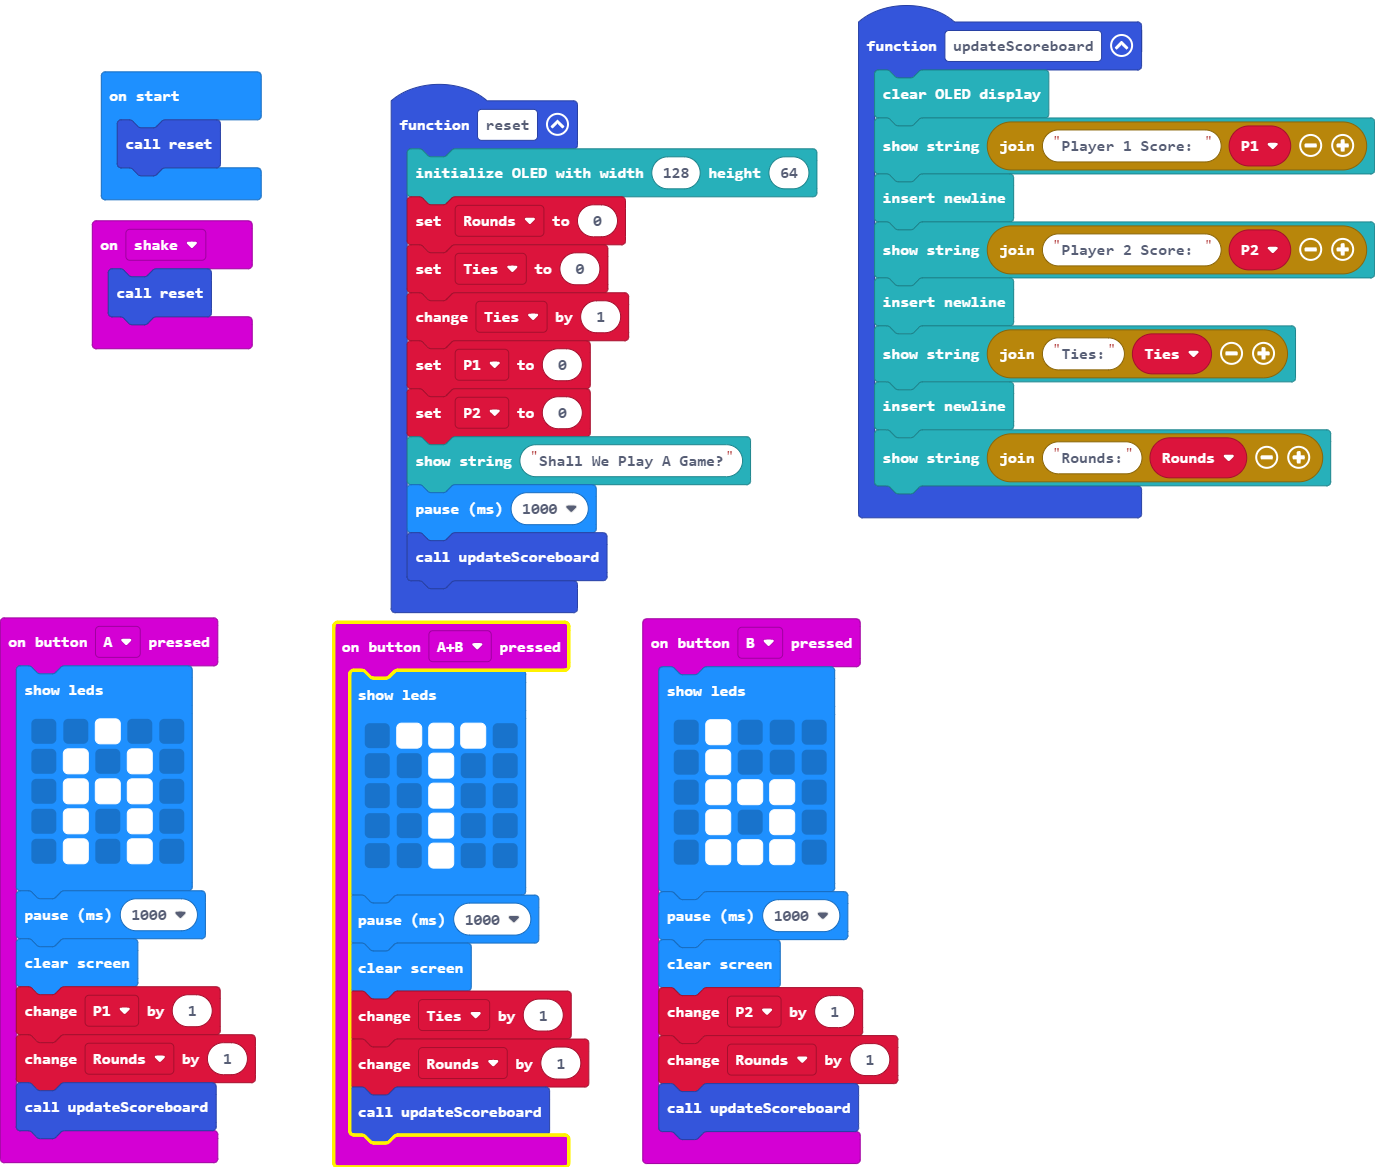
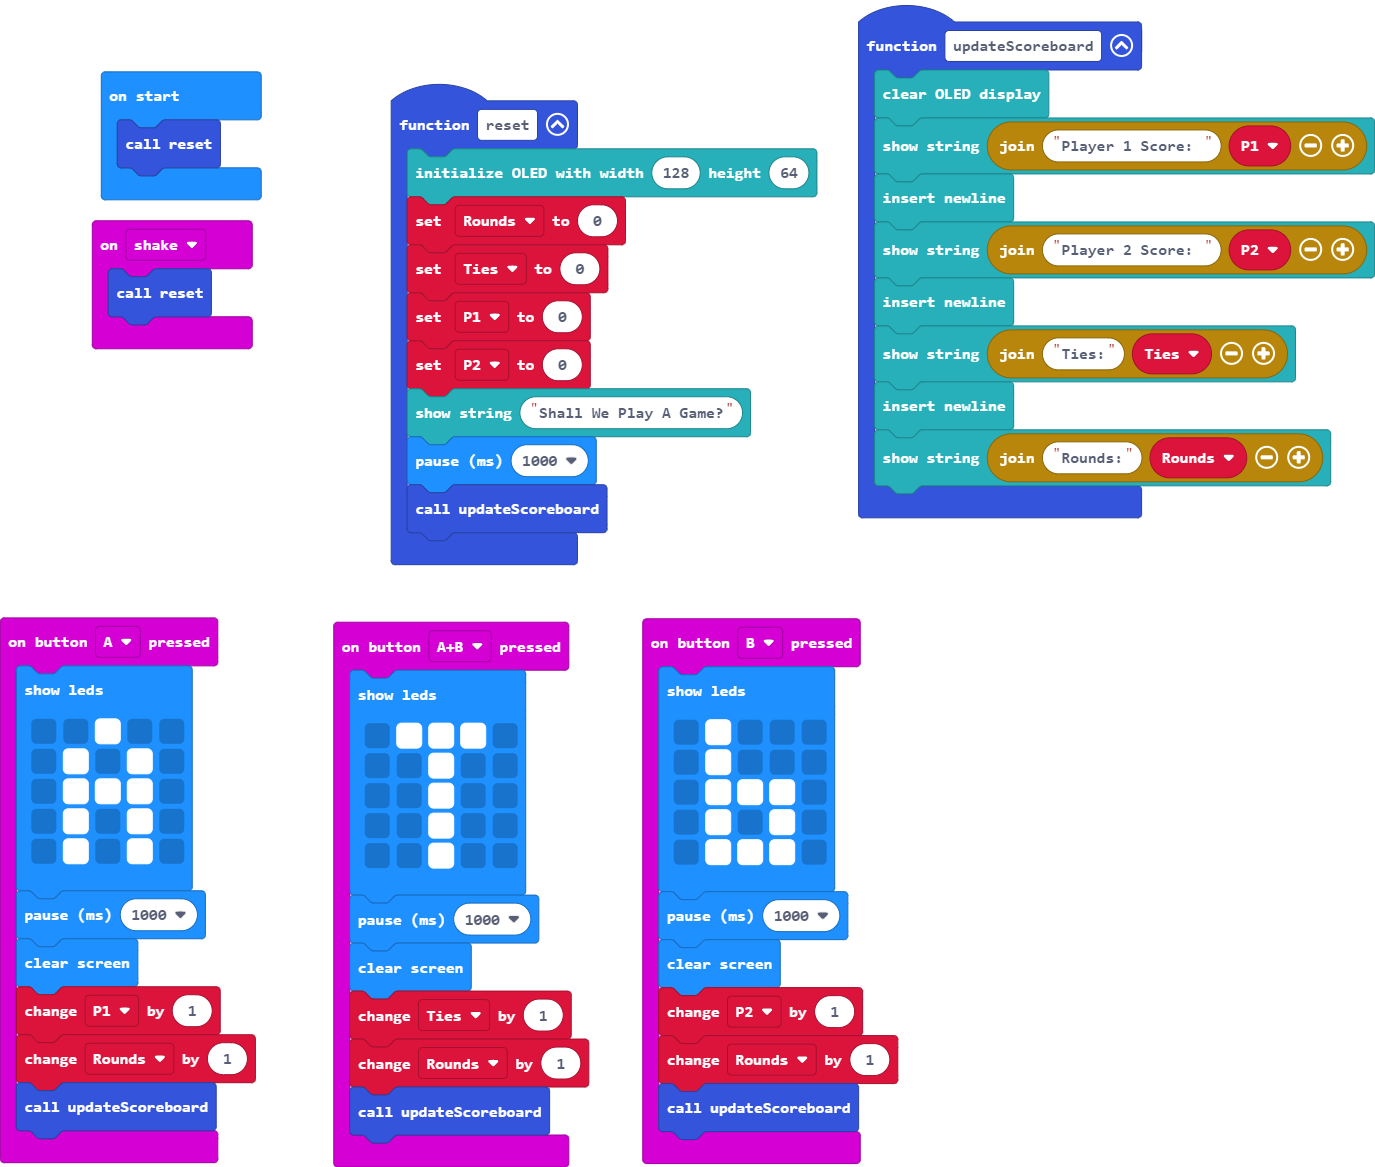
Update main.blocks, main.ts

Changed region(s): [[0.2444, 0.2468, 0.5498, 0.5861], [0.2444, 0.9563, 0.4276, 1.0]]

diff --git a/main.ts b/main.ts
@@ -57,7 +57,6 @@ function reset () {
     OLED.init(128, 64)
     Rounds = 0
     Ties = 0
-    Ties += 1
     P1 = 0
     P2 = 0
     OLED.writeStringNewLine("Shall We Play A Game?")
